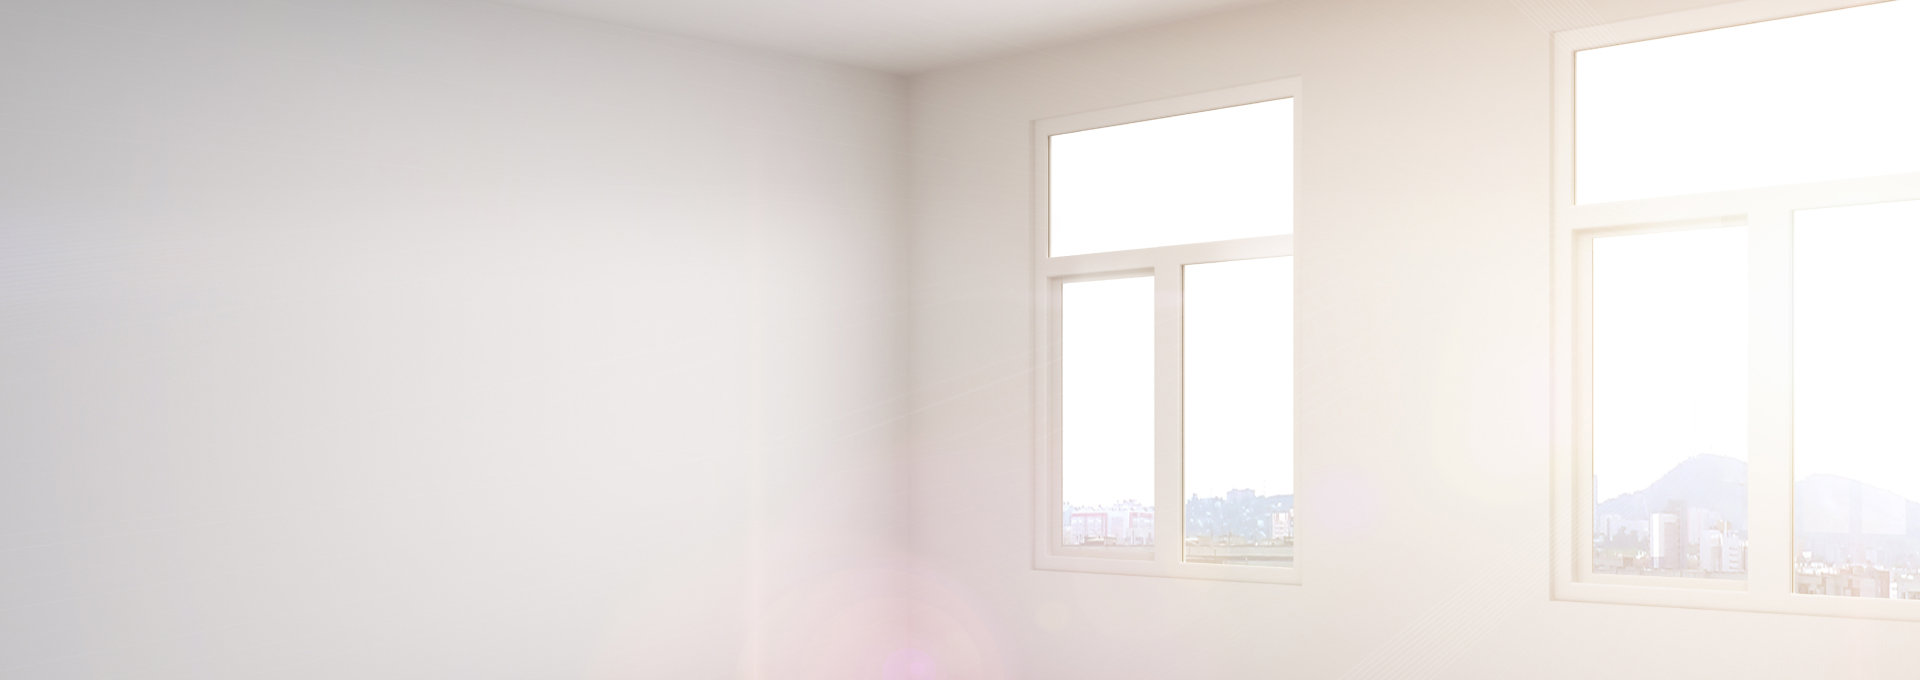
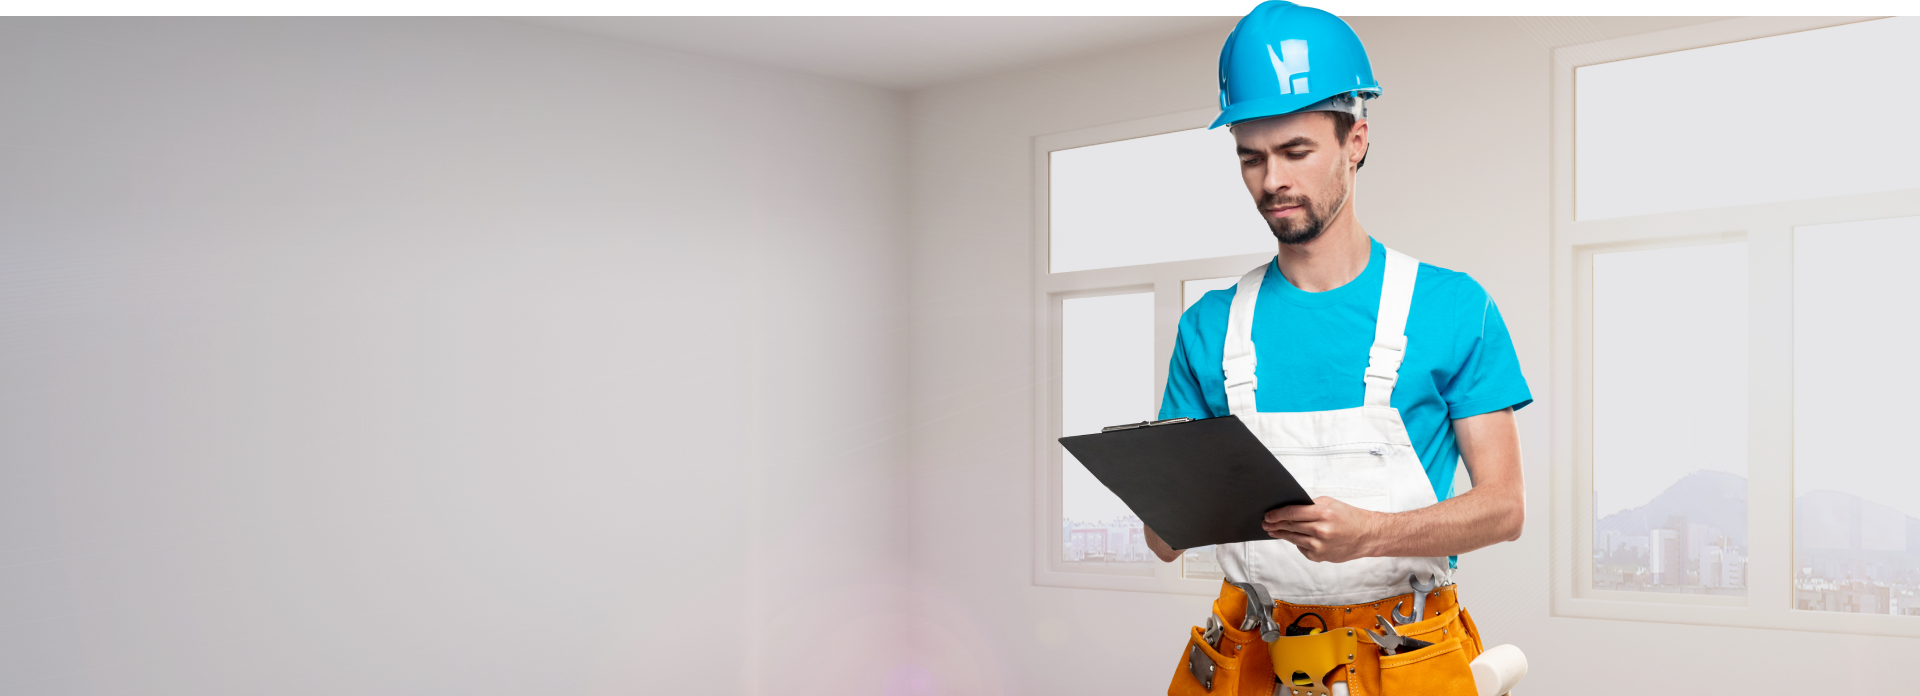
Начал переделывать фоновые картинки

diff --git a/index.html b/index.html
@@ -872,6 +872,58 @@
       </div>
     </section>
 
+    <section class="section calculate-free calculate-free--four">
+      <div class="calculate-free__top-image">
+        <picture>
+          <source media="(max-width: 360px)" srcset="img/calculate-free/guy-with-glasses-360.jpg">
+          <img src="img/calculate-free/guy-with-glasses.jpg" alt="фото монтажника">
+        </picture>
+      </div>
+
+
+      <div class="wrapper">
+        <div class="calculate-free__wrapper">
+          <div class="section__header">
+            <h2 class="section__title">Нужны новые окна с установкой?</h2>
+            <p class="section__text">оставьте заявку и наш замерщик приедет к Вам уже сегодня</p>
+          </div>
+
+          <form class="custom-form">
+            <div class="custom-form__wrapper">
+              <div class="custom-form__item">
+                <label class="custom-form__label" for="custom-name">Адрес:</label>
+                <input class="custom-form__input" type="text" name="name" id="custom-name" value="введите Ваш адрес"
+                  required>
+              </div>
+            </div>
+
+            <div class="custom-form__wrapper">
+              <div class="custom-form__item">
+                <label class="custom-form__label" for="custom-tel">Телефон:</label>
+                <input class="custom-form__input" type="tel" name="phone" id="custom-tel" value="Ваш номер" required>
+              </div>
+            </div>
+
+            <div class="custom-form__wrapper">
+              <label class="custom-form__label custom-form__label--accept">
+                <input class="visually-hidden" type="checkbox" name="confirm" checked required>
+                <span class="custom-form__politic">Даю согласие на обработку персональных данных</span>
+              </label>
+
+              <button class="form__submit-button button" type="submit">
+                <span class="button__text">Рассчитать</span>
+                <span class="button__icon"><svg width="18" height="10" fill="none" xmlns="http://www.w3.org/2000/svg">
+                    <path d="M1 5h15m0 0-3.943-4M16 5l-3.943 4" stroke="#fff" stroke-width="2" stroke-linecap="round" />
+                  </svg></span>
+              </button>
+            </div>
+          </form>
+
+        </div>
+
+      </div>
+    </section>
+
   </main>
   <footer class="footer">
     <div class="wrapper footer__flex">

diff --git a/scss/sections/_calculate-free.scss b/scss/sections/_calculate-free.scss
@@ -1,5 +1,5 @@
 .calculate-free {
-  background-color: #9C938B;
+  // background-color: #9C938B;
   background-image: url(../img/calculate-free/bg.jpg);
   background-position: center;
   background-size: cover;
@@ -9,17 +9,17 @@
   z-index: 0;
   position: relative;
 
-  &::after {
-    content: "";
-    background: linear-gradient(0deg, rgba(0, 1, 20, 0.1), rgba(0, 1, 20, 0.1));
-    position: absolute;
-    width: 100%;
-    height: 100%;
-    top: 0;
-    left: 0;
-    z-index: 1;
-    display: block;
-  }
+  // &::after {
+  //   content: "";
+  //   background: linear-gradient(0deg, rgba(0, 1, 20, 0.1), rgba(0, 1, 20, 0.1));
+  //   position: absolute;
+  //   width: 100%;
+  //   height: 100%;
+  //   top: 0;
+  //   left: 0;
+  //   z-index: 1;
+  //   display: block;
+  // }
 
   .wrapper {
     position: relative;
@@ -41,9 +41,9 @@
   padding: 66px 0 0;
   background-image: url(../img/calculate-free/bg-2.jpg);
 
-  &::after {
-    background: linear-gradient(360deg, rgba(0, 0, 0, 0.3) 0%, rgba(255, 255, 255, 0) 100%), linear-gradient(0deg, rgba(0, 1, 20, 0.15), rgba(0, 1, 20, 0.15));
-  }
+  // &::after {
+  //   background: linear-gradient(360deg, rgba(0, 0, 0, 0.3) 0%, rgba(255, 255, 255, 0) 100%), linear-gradient(0deg, rgba(0, 1, 20, 0.15), rgba(0, 1, 20, 0.15));
+  // }
 
   .section__text {
     color: inherit;
@@ -73,9 +73,14 @@
   background-image: url(../img/calculate-free/bg-3.png);
   background-color: transparent;
 
-  &::after {
-    display: none;
-  }
+  // &::after {
+  //   display: none;
+  // }
+}
+
+// модификация 4 
+.calculate-free--four {
+  background-image: url(../img/calculate-free/bg-4.png);
 }
 
 @media (max-width: 1024px) {

diff --git a/css/style.css b/css/style.css
@@ -1777,7 +1777,6 @@ textarea {
 }
 
 .calculate-free {
-  background-color: #9C938B;
   background-image: url(../img/calculate-free/bg.jpg);
   background-position: center;
   background-size: cover;
@@ -1786,19 +1785,6 @@ textarea {
   padding: 66px 0 78px;
   z-index: 0;
   position: relative;
-}
-
-.calculate-free::after {
-  content: "";
-  background: -webkit-gradient(linear, left bottom, left top, from(rgba(0, 1, 20, 0.1)), to(rgba(0, 1, 20, 0.1)));
-  background: linear-gradient(0deg, rgba(0, 1, 20, 0.1), rgba(0, 1, 20, 0.1));
-  position: absolute;
-  width: 100%;
-  height: 100%;
-  top: 0;
-  left: 0;
-  z-index: 1;
-  display: block;
 }
 
 .calculate-free .wrapper {
@@ -1817,11 +1803,6 @@ textarea {
 .calculate-free--two {
   padding: 66px 0 0;
   background-image: url(../img/calculate-free/bg-2.jpg);
-}
-
-.calculate-free--two::after {
-  background: -webkit-gradient(linear, left bottom, left top, from(rgba(0, 0, 0, 0.3)), to(rgba(255, 255, 255, 0))), -webkit-gradient(linear, left bottom, left top, from(rgba(0, 1, 20, 0.15)), to(rgba(0, 1, 20, 0.15)));
-  background: linear-gradient(360deg, rgba(0, 0, 0, 0.3) 0%, rgba(255, 255, 255, 0) 100%), linear-gradient(0deg, rgba(0, 1, 20, 0.15), rgba(0, 1, 20, 0.15));
 }
 
 .calculate-free--two .section__text {
@@ -1849,8 +1830,8 @@ textarea {
   background-color: transparent;
 }
 
-.calculate-free--three::after {
-  display: none;
+.calculate-free--four {
+  background-image: url(../img/calculate-free/bg-4.png);
 }
 
 @media (max-width: 1024px) {
